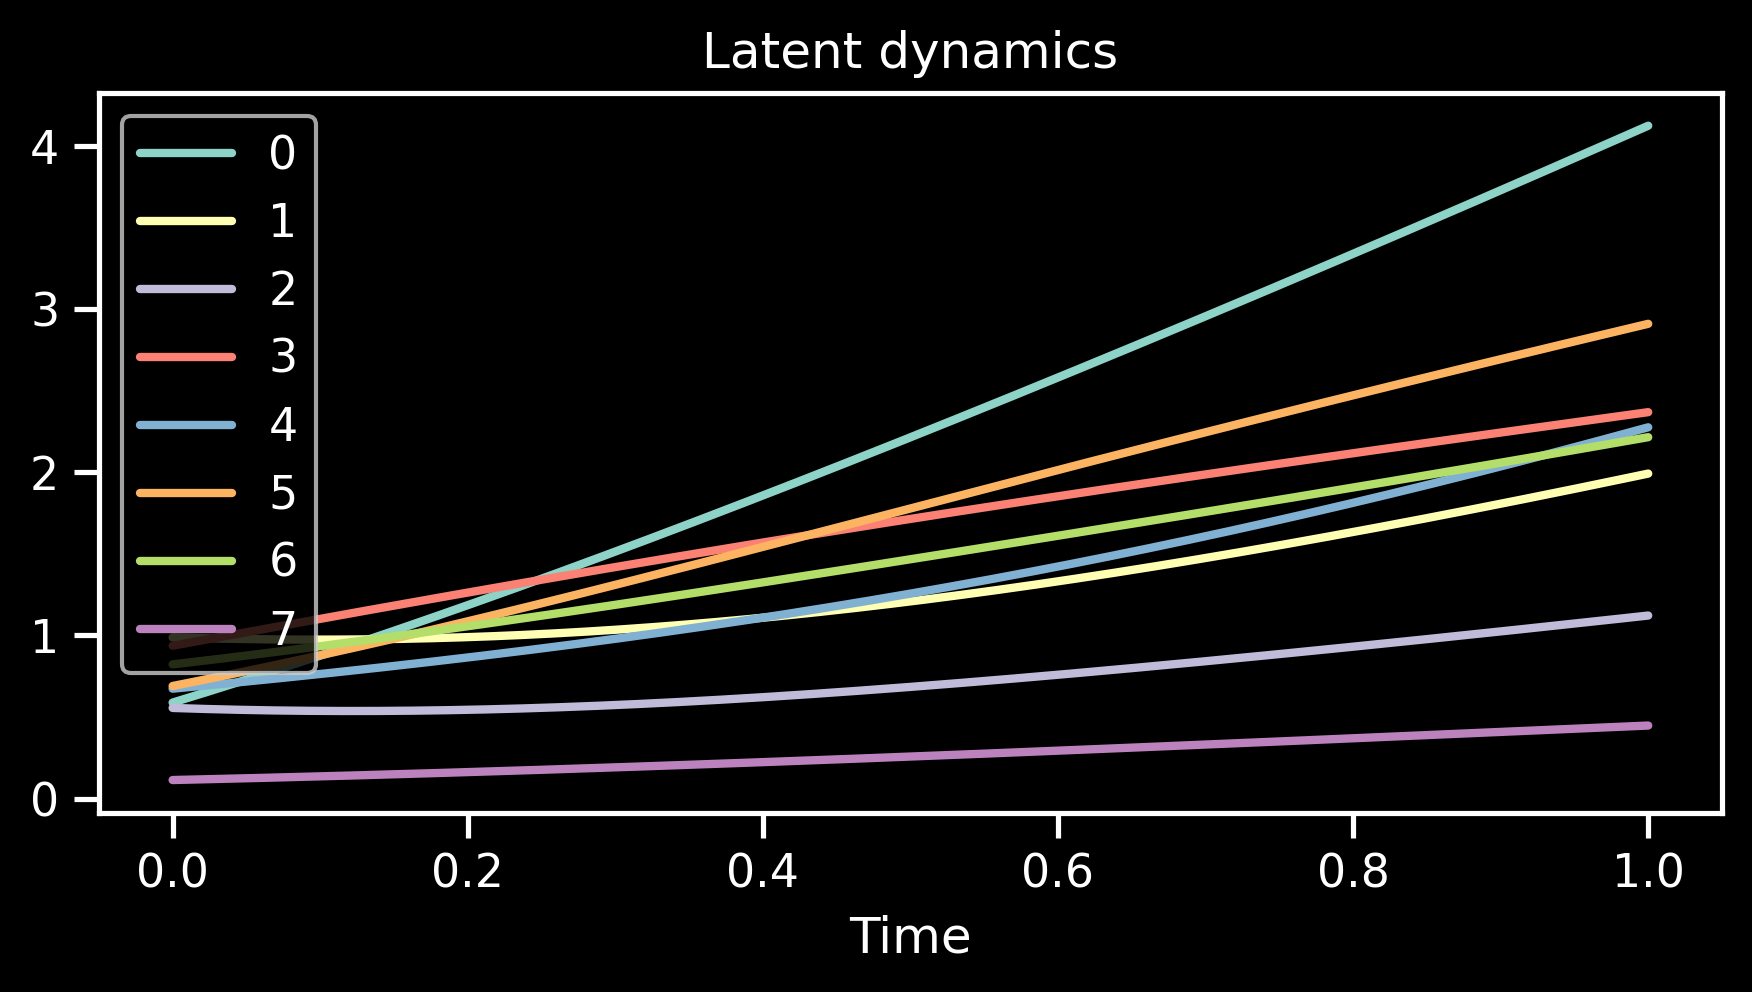
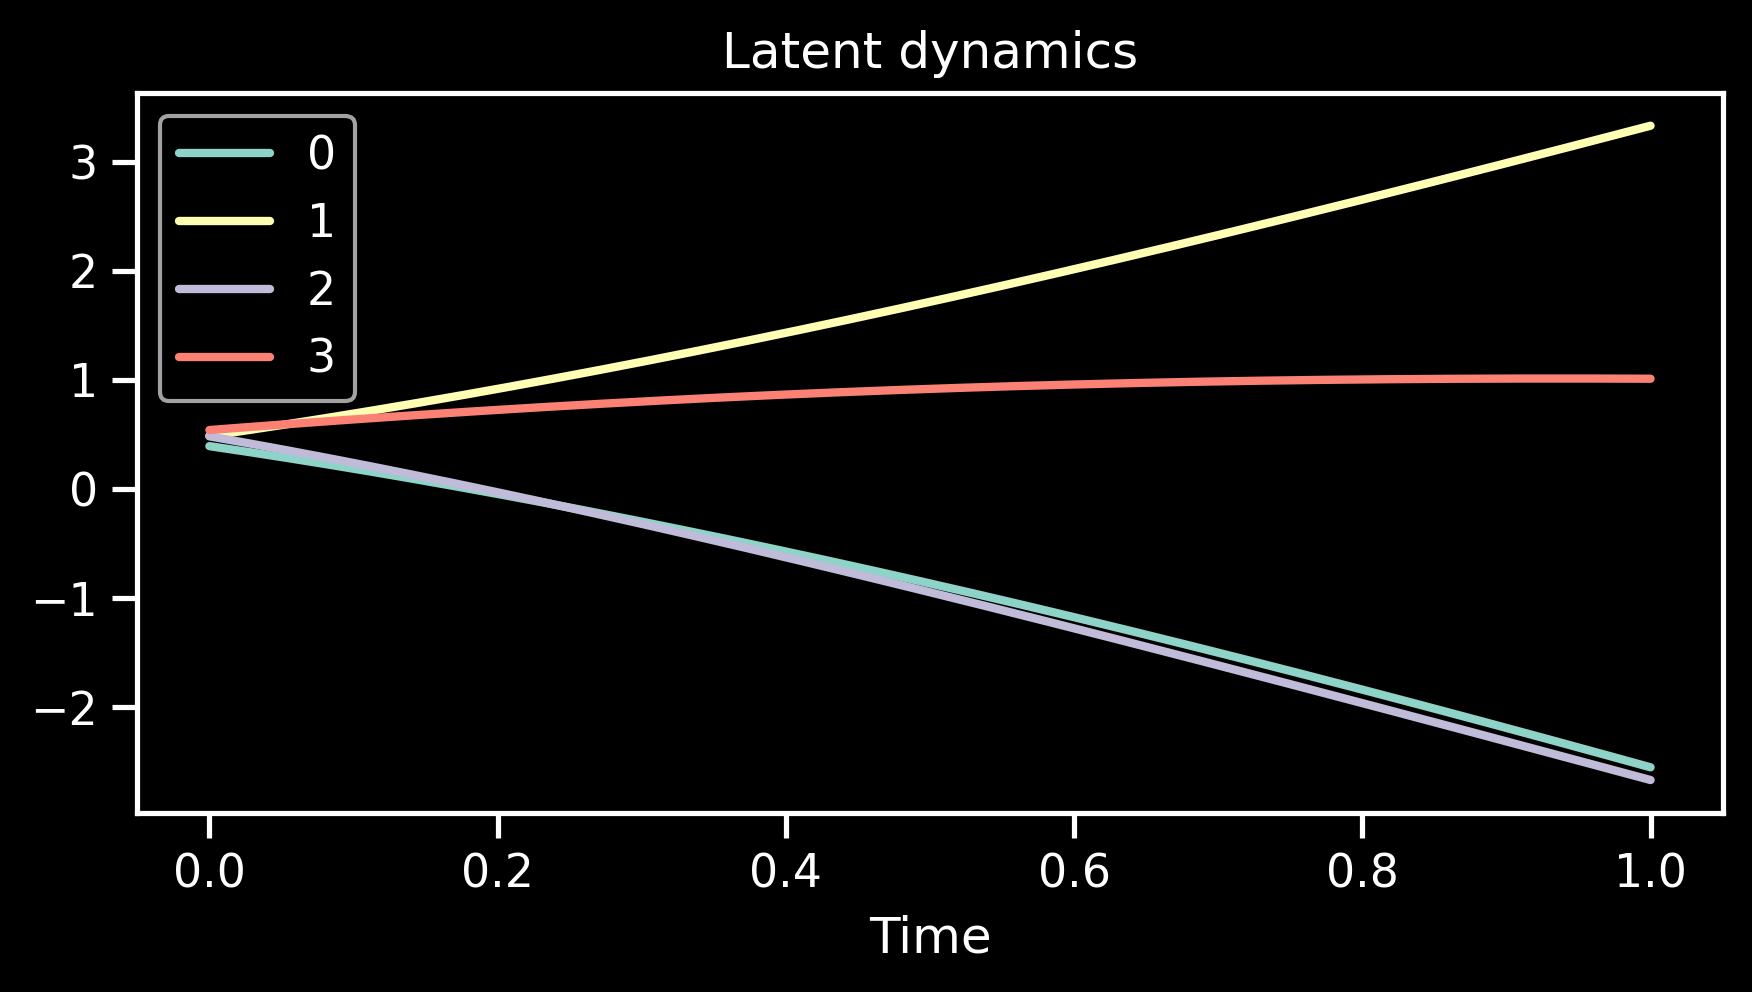
Multiplication still fails

diff --git a/examples/pendulums/02_pendulums_parajax.py b/examples/pendulums/02_pendulums_parajax.py
@@ -135,11 +135,11 @@ class Operator(eqx.Module):
         #                 eqx.nn.Linear(50, in_out_size, key=keys[2])]
 
     def __call__(self, x1, x2):
-        y = jnp.concatenate([x1, x2], axis=0)
+        # y = jnp.concatenate([x1, x2], axis=0)
         # for layer in self.layers:
         #     y = layer(y)
-        return y
-        # return x1
+        # return y
+        return x1*x2
 
 
 
@@ -224,13 +224,13 @@ keys = get_new_key(SEED, num=6)
 
 d1 = X1.shape[-1] - 1
 E1 = Encoder(in_size=d1, out_size=latent_size, key=keys[0])
-D1 = Decoder(in_size=2*latent_size+d1+1, out_size=d1, key=keys[1])
+D1 = Decoder(in_size=latent_size+d1+1, out_size=d1, key=keys[1])
 
 d2 = X2.shape[-1] - 1
 E2 = Encoder(in_size=d2, out_size=latent_size, key=keys[2])
-D2 = Decoder(in_size=2*latent_size+d2+1, out_size=d2, key=keys[3])
+D2 = Decoder(in_size=latent_size+d2+1, out_size=d2, key=keys[3])
 
-P = Processor(in_out_size=latent_size*2, key=keys[4])
+P = Processor(in_out_size=latent_size, key=keys[4])
 O = Operator(in_out_size=latent_size, key=keys[5])
 
 model = (E1, E2, P, D1, D2, O)
@@ -445,7 +445,7 @@ def test_processor(model, X_latent, t):
     return latent_final
 
 # X_latent = jnp.array([0.0, 0.1, 0.0, 0.1])
-X_latent = jax.random.uniform(get_new_key(SEED), (latent_size*2,))
+X_latent = jax.random.uniform(get_new_key(SEED), (latent_size,))
 test_t = jnp.linspace(0, 1, 1001)
 
 X_latent_final = test_processor(model, X_latent, test_t)
